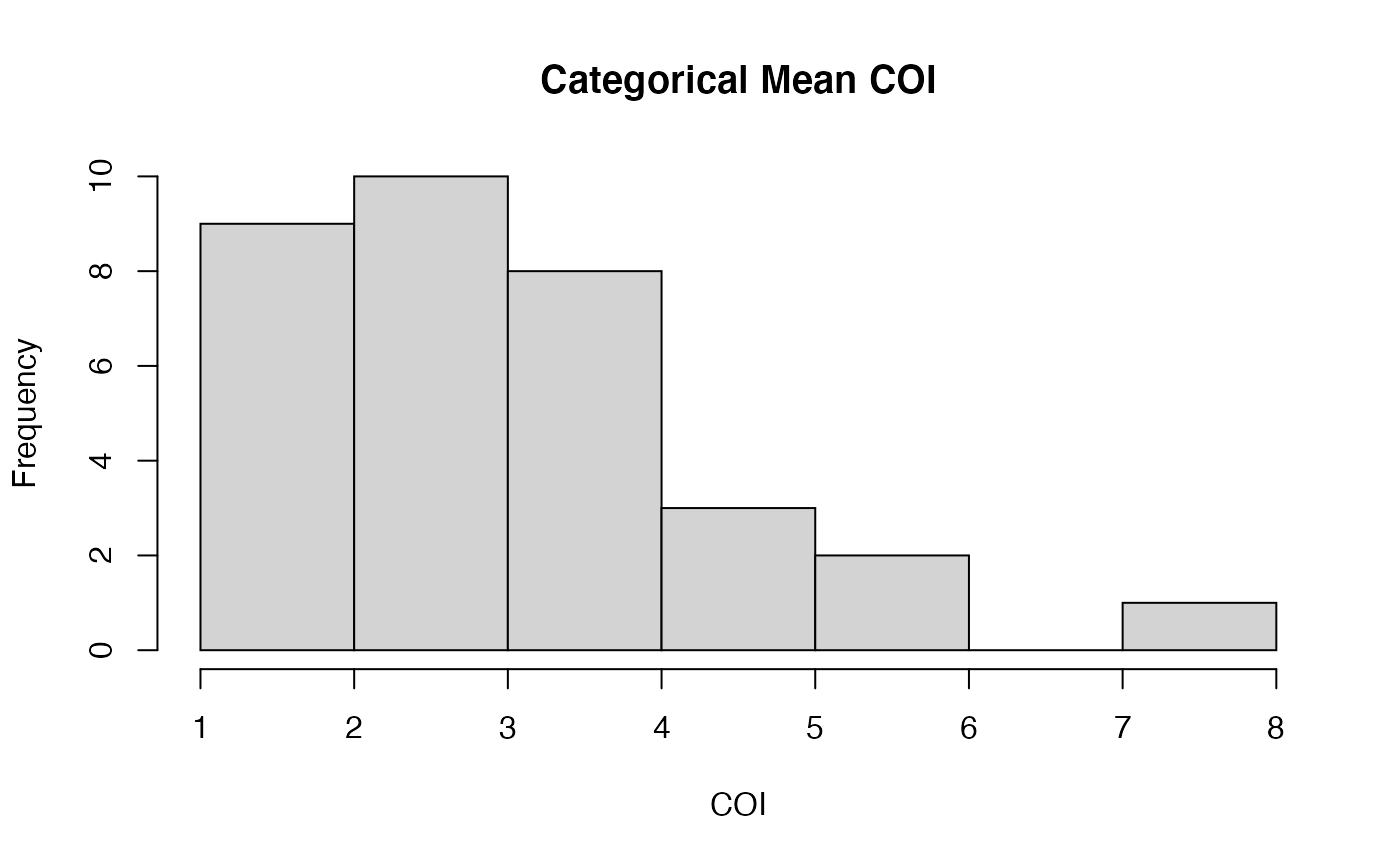
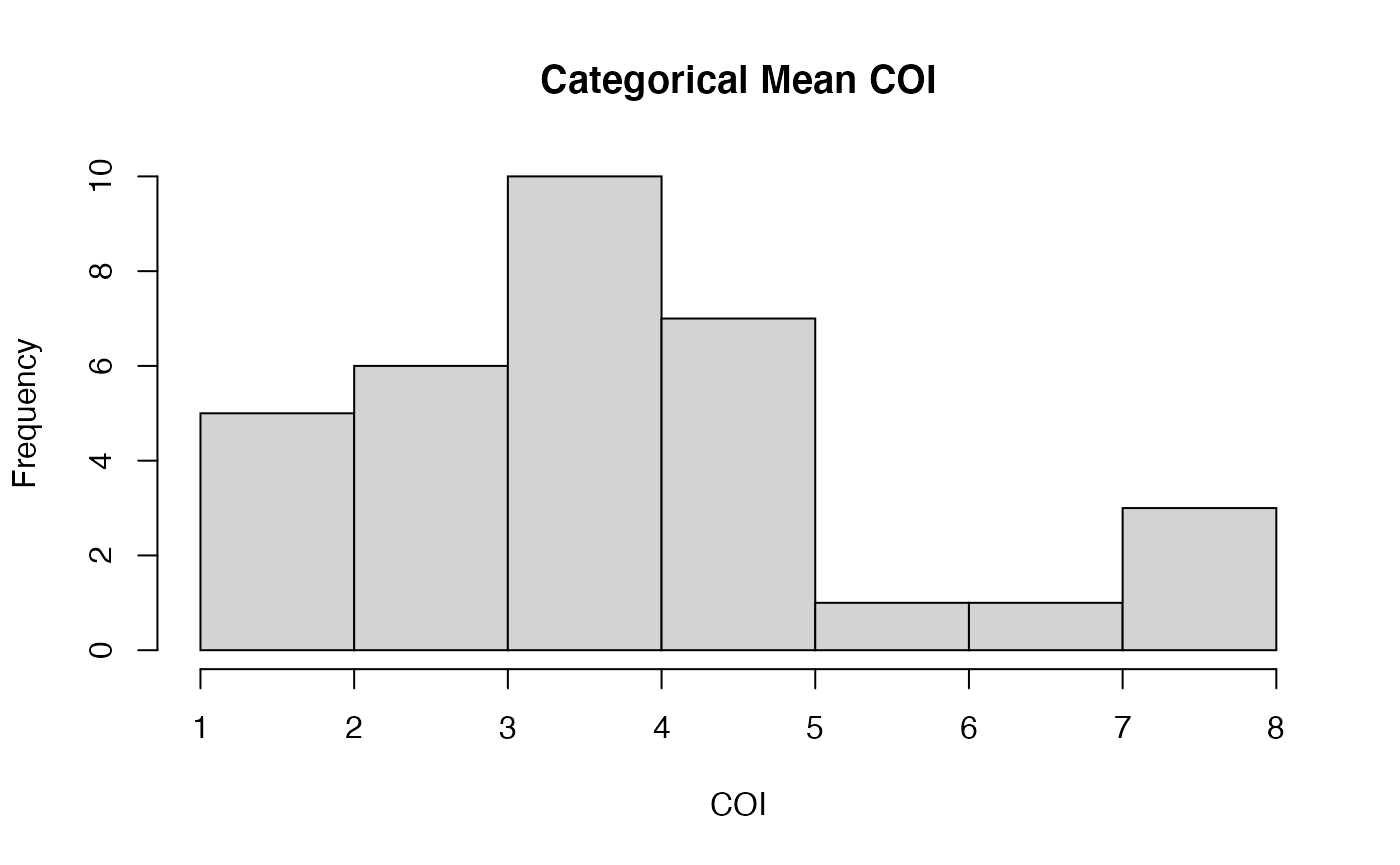
Built site for McCOILR: 1.3.1@a077dd0

Changed region(s): [[0.1229, 0.1873, 0.4914, 0.4994], [0.5836, 0.5618, 0.9214, 0.7491], [0.4607, 0.3434, 0.5836, 0.5931]]

diff --git a/articles/introduction.html b/articles/introduction.html
@@ -329,7 +329,7 @@ output<span class="op">=</span><span class="st">"output_test.txt"</span> <span c
 ## Iter 4000 out of 5000
 ## Iter 4500 out of 5000
 ## Iter 5000 out of 5000
-## Time = 19.00 s</code></pre>
+## Time = 20.00 s</code></pre>
 <p>The R functions now return the summary outputs, just for ease of looking at the results:</p>
 <div class="sourceCode" id="cb10"><pre class="downlit sourceCode r">
 <code class="sourceCode R"><span class="co">## view summary data.frame for categorical</span>
@@ -338,11 +338,11 @@ output<span class="op">=</span><span class="st">"output_test.txt"</span> <span c
 ##  $ file         : chr  "output_test.txt" "output_test.txt" "output_test.txt" "output_test.txt" ...
 ##  $ CorP         : chr  "C" "C" "C" "C" ...
 ##  $ name         : chr  "ind1" "ind2" "ind3" "ind4" ...
-##  $ mean         : num  3 2 3 1 4 3 4 3 2 6 ...
+##  $ mean         : num  4 5 4 2 4 3 5 3 2 8 ...
 ##  $ median       : num  2 2 2 1 3 3 3 3 2 5 ...
-##  $ sd           : num  2.21 1.76 2.91 2.19 2.21 ...
+##  $ sd           : num  5 6.33 3.84 4.76 2.83 ...
 ##  $ quantile0.025: num  2 2 2 1 2 2 2 2 1 3 ...
-##  $ quantile0.975: num  12 8 15 9 13 ...</code></pre>
+##  $ quantile0.975: num  20 23 18 20 14 ...</code></pre>
 <div class="sourceCode" id="cb12"><pre class="downlit sourceCode r">
 <code class="sourceCode R"><span class="co">## Have a look at the categorical output COI distribution</span>
 <span class="fu"><a href="https://rdrr.io/r/graphics/hist.html" class="external-link">hist</a></span><span class="op">(</span><span class="fu"><a href="https://rdrr.io/r/base/numeric.html" class="external-link">as.numeric</a></span><span class="op">(</span><span class="fu"><a href="https://rdrr.io/r/base/character.html" class="external-link">as.character</a></span><span class="op">(</span><span class="va">out_cat</span><span class="op">$</span><span class="va">mean</span><span class="op">[</span><span class="va">out_cat</span><span class="op">$</span><span class="va">CorP</span><span class="op">==</span><span class="st">"C"</span><span class="op">]</span><span class="op">)</span><span class="op">)</span>,
@@ -356,10 +356,10 @@ main <span class="op">=</span> <span class="st">"Categorical Mean COI"</span>, x
 ##  $ CorP         : chr  "C" "C" "C" "C" ...
 ##  $ name         : chr  "ind1" "ind2" "ind3" "ind4" ...
 ##  $ mean         : num  2 2 2 6 2 4 8 2 2 2 ...
-##  $ median       : num  2 2 2 6 2 4 7 2 2 2 ...
-##  $ sd           : num  0.2934 0.1467 0.0418 1.2331 0.4571 ...
+##  $ median       : num  2 2 2 6 2 4 8 2 2 2 ...
+##  $ sd           : num  0.3149 0.2021 0.0669 1.2659 0.4597 ...
 ##  $ quantile0.025: num  2 2 2 4 2 3 5 2 2 2 ...
-##  $ quantile0.975: num  3 2 2 9 3 5 12 2 2 3 ...</code></pre>
+##  $ quantile0.975: num  3 3 2 9 3 5 13 2 2 3 ...</code></pre>
 <div class="sourceCode" id="cb15"><pre class="downlit sourceCode r">
 <code class="sourceCode R"><span class="co">## Have a look at the proportional output COI distribution</span>
 <span class="fu"><a href="https://rdrr.io/r/graphics/hist.html" class="external-link">hist</a></span><span class="op">(</span><span class="fu"><a href="https://rdrr.io/r/base/numeric.html" class="external-link">as.numeric</a></span><span class="op">(</span><span class="fu"><a href="https://rdrr.io/r/base/character.html" class="external-link">as.character</a></span><span class="op">(</span><span class="va">out_prop</span><span class="op">$</span><span class="va">mean</span><span class="op">[</span><span class="va">out_cat</span><span class="op">$</span><span class="va">CorP</span><span class="op">==</span><span class="st">"C"</span><span class="op">]</span><span class="op">)</span><span class="op">)</span>,

diff --git a/index.html b/index.html
@@ -145,7 +145,6 @@
 <li><a href="https://www.repostatus.org/#active" class="external-link"><img src="https://www.repostatus.org/badges/latest/active.svg" alt="Project Status: Active – The project has reached a stable, usable state and is being actively developed."></a></li>
 <li><a href="https://github.com/OJWatson/McCOILR/actions" class="external-link"><img src="https://github.com/OJWatson/McCOILR/workflows/R-CMD-check/badge.svg" alt="R build status"></a></li>
 <li><a href="https://codecov.io/gh/OJWatson/McCOILR?branch=master" class="external-link"><img src="https://codecov.io/gh/OJWatson/McCOILR/branch/master/graph/badge.svg" alt="Codecov test coverage"></a></li>
-<li><a href="https://ojwatson.github.io/McCOILR/" class="external-link"><img src="https://github.com/OJWatson/McCOILR/raw/master/tools/pkgdownshield.png" alt="Documentation via pkgdown"></a></li>
 </ul>
 </div>
 
